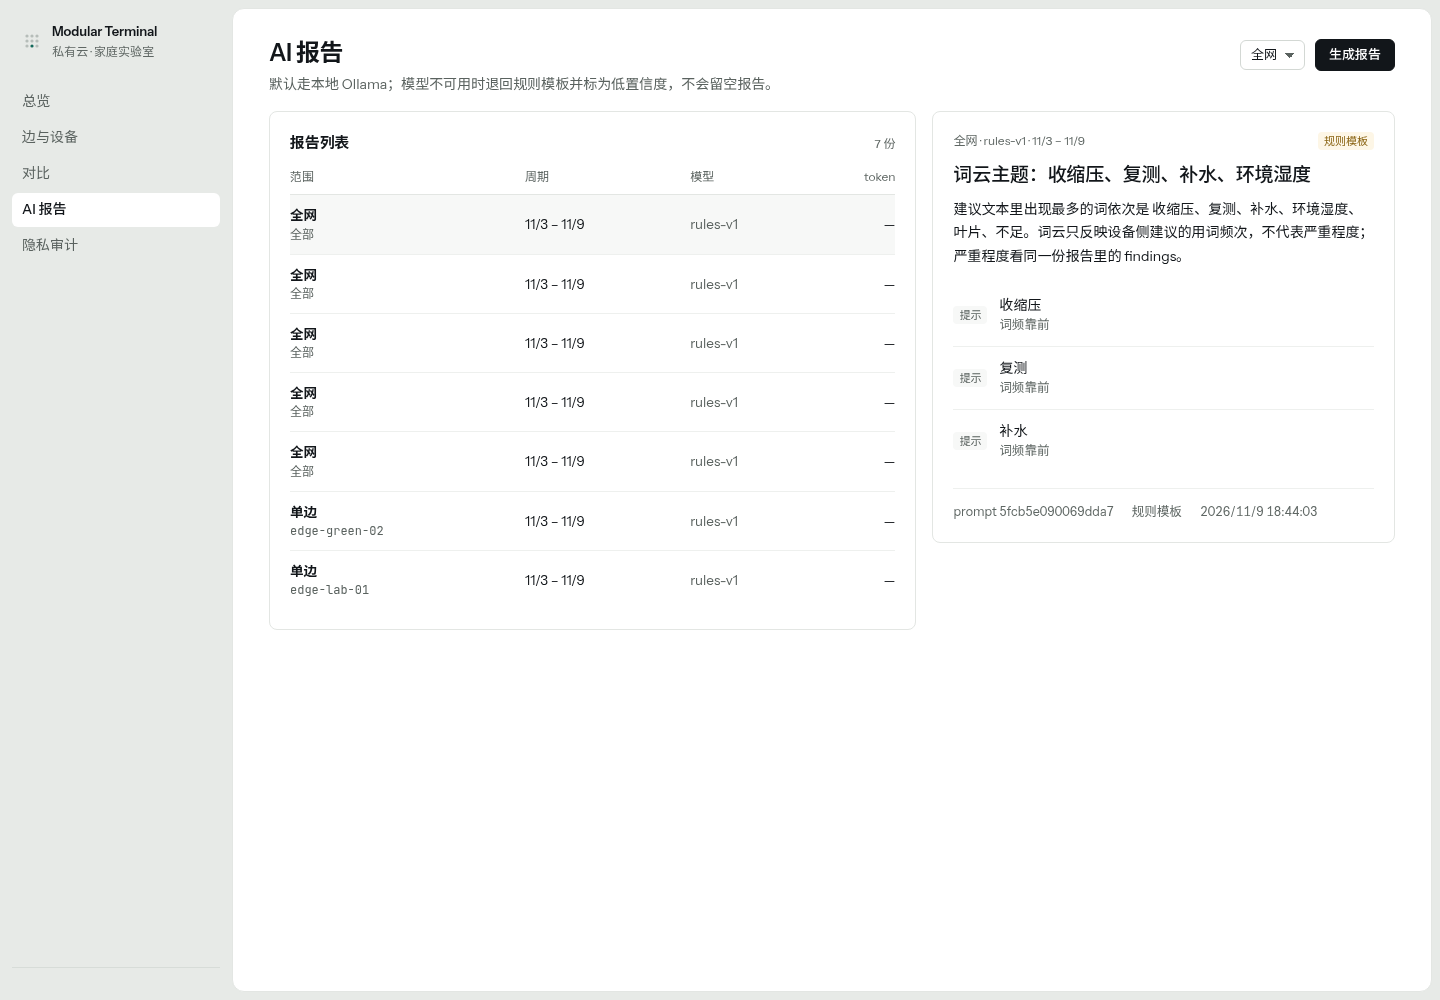
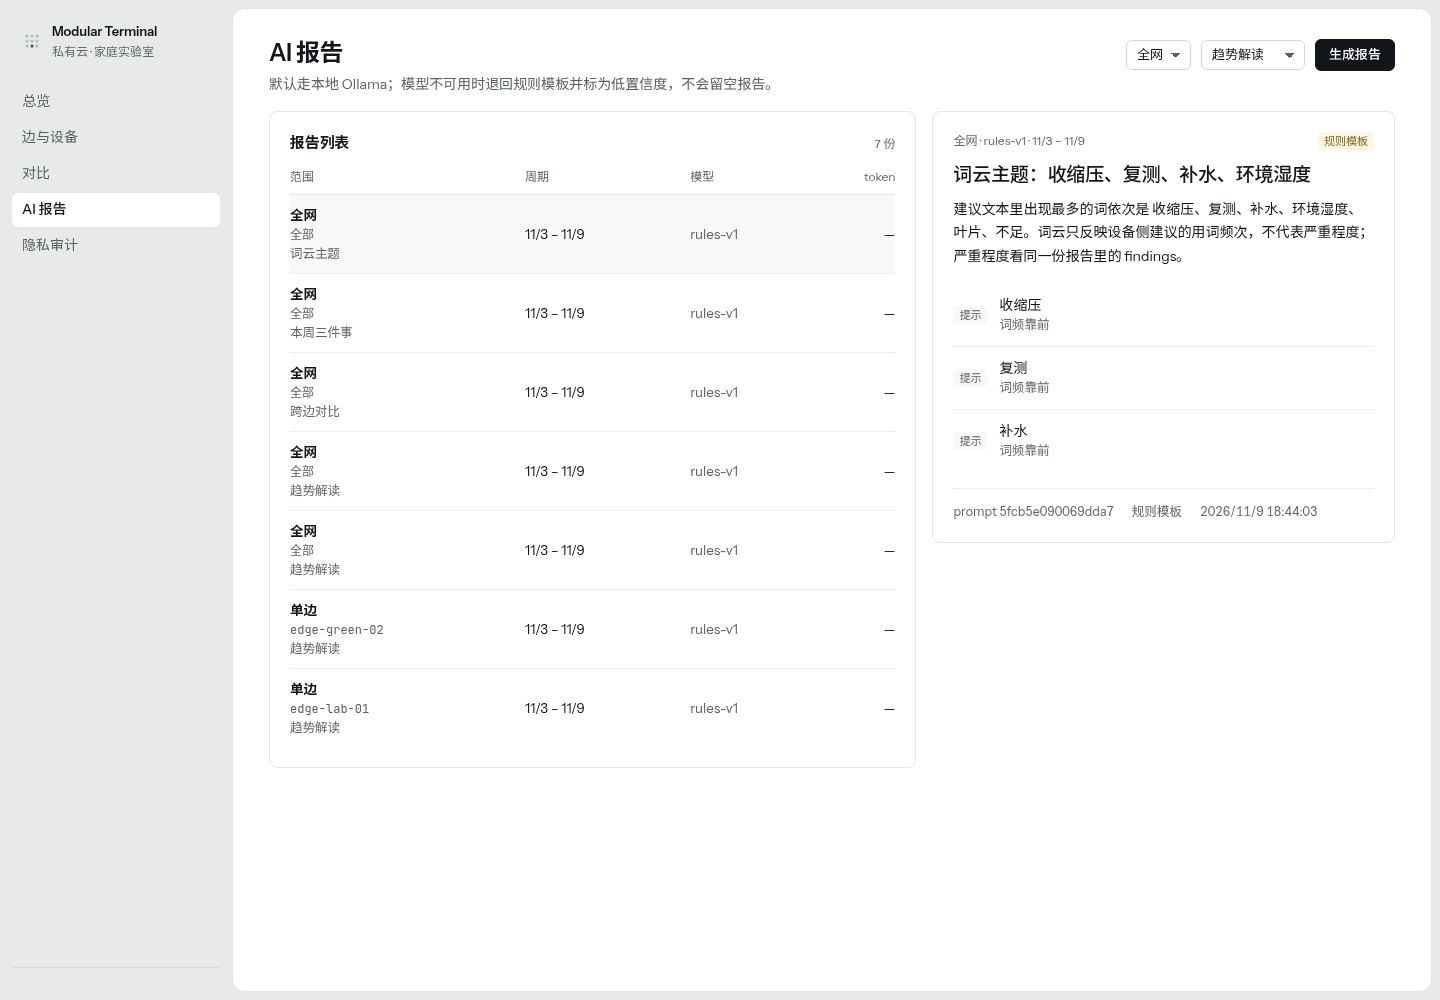
feat(cloud): 报告页可选四种任务，列表显示任务类型
- 生成报告旁加任务下拉：趋势解读 / 跨边对比 / 本周三件事 / 词云主题
- 报告列表每行标出任务类型（从 content.task 读，老数据兜底为趋势解读）

diff --git a/cloud/static/app.js b/cloud/static/app.js
@@ -534,6 +534,8 @@ async function viewReports() {
   }
 
   const scopeLabel = { fleet: "全网", edge: "单边", device: "单设备" };
+  const taskLabel = { weekly_narrative: "趋势解读", fleet_compare: "跨边对比",
+                      advice_digest: "本周三件事", wordcloud_label: "词云主题" };
 
   main.innerHTML = `
     <div class="title-row">
@@ -543,6 +545,12 @@ async function viewReports() {
         <select class="control" id="gen-scope" aria-label="报告范围">
           <option value="fleet">全网</option>
           <option value="edge">单边</option>
+        </select>
+        <select class="control" id="gen-task" aria-label="报告类型">
+          <option value="weekly_narrative">趋势解读</option>
+          <option value="fleet_compare">跨边对比</option>
+          <option value="advice_digest">本周三件事</option>
+          <option value="wordcloud_label">词云主题</option>
         </select>
         <button class="btn btn-primary" id="gen">生成报告</button>
       </div>
@@ -555,7 +563,8 @@ async function viewReports() {
           <thead><tr><th>范围</th><th>周期</th><th>模型</th><th class="num">token</th></tr></thead>
           <tbody>${list.map((r) => `<tr data-report="${r.id}" ${r.id === active ? 'style="background:var(--raised)"' : ""}>
             <td><strong>${scopeLabel[r.scope] || r.scope}</strong>
-              <div class="mono">${esc(r.scope_id || "全部")}</div></td>
+              <div class="mono">${esc(r.scope_id || "全部")}</div>
+              <div class="row-sub">${esc(taskLabel[r.task] || "趋势解读")}</div></td>
             <td>${fmtDay(r.period_start)} – ${fmtDay(r.period_end)}</td>
             <td class="muted">${esc(r.model)}</td>
             <td class="num">${r.model === "rules-v1" ? "—" : `${fmtNum(r.tokens_in)} / ${fmtNum(r.tokens_out)}`}</td>
@@ -598,7 +607,7 @@ async function viewReports() {
 
   document.getElementById("gen").onclick = async (ev) => {
     const scope = document.getElementById("gen-scope").value;
-    const body = { scope };
+    const body = { scope, task: document.getElementById("gen-task").value };
     if (scope === "edge") {
       const edges = await api("/api/v1/edges").catch(() => []);
       if (!edges.length) { toast("还没有边节点"); return; }

diff --git a/cloud/store.py b/cloud/store.py
@@ -323,7 +323,9 @@ def reports(limit: int = 30) -> list[dict[str, Any]]:
     with connect() as conn:
         rows = conn.execute(
             "SELECT id, scope, scope_id, period_start, period_end, model, prompt_hash,"
-            " tokens_in, tokens_out, created_at FROM ai_reports ORDER BY created_at DESC LIMIT ?",
+            " tokens_in, tokens_out, created_at,"
+            " COALESCE(json_extract(content,'$.task'),'weekly_narrative') AS task"
+            " FROM ai_reports ORDER BY created_at DESC LIMIT ?",
             (limit,)).fetchall()
     return [dict(r) for r in rows]
 
